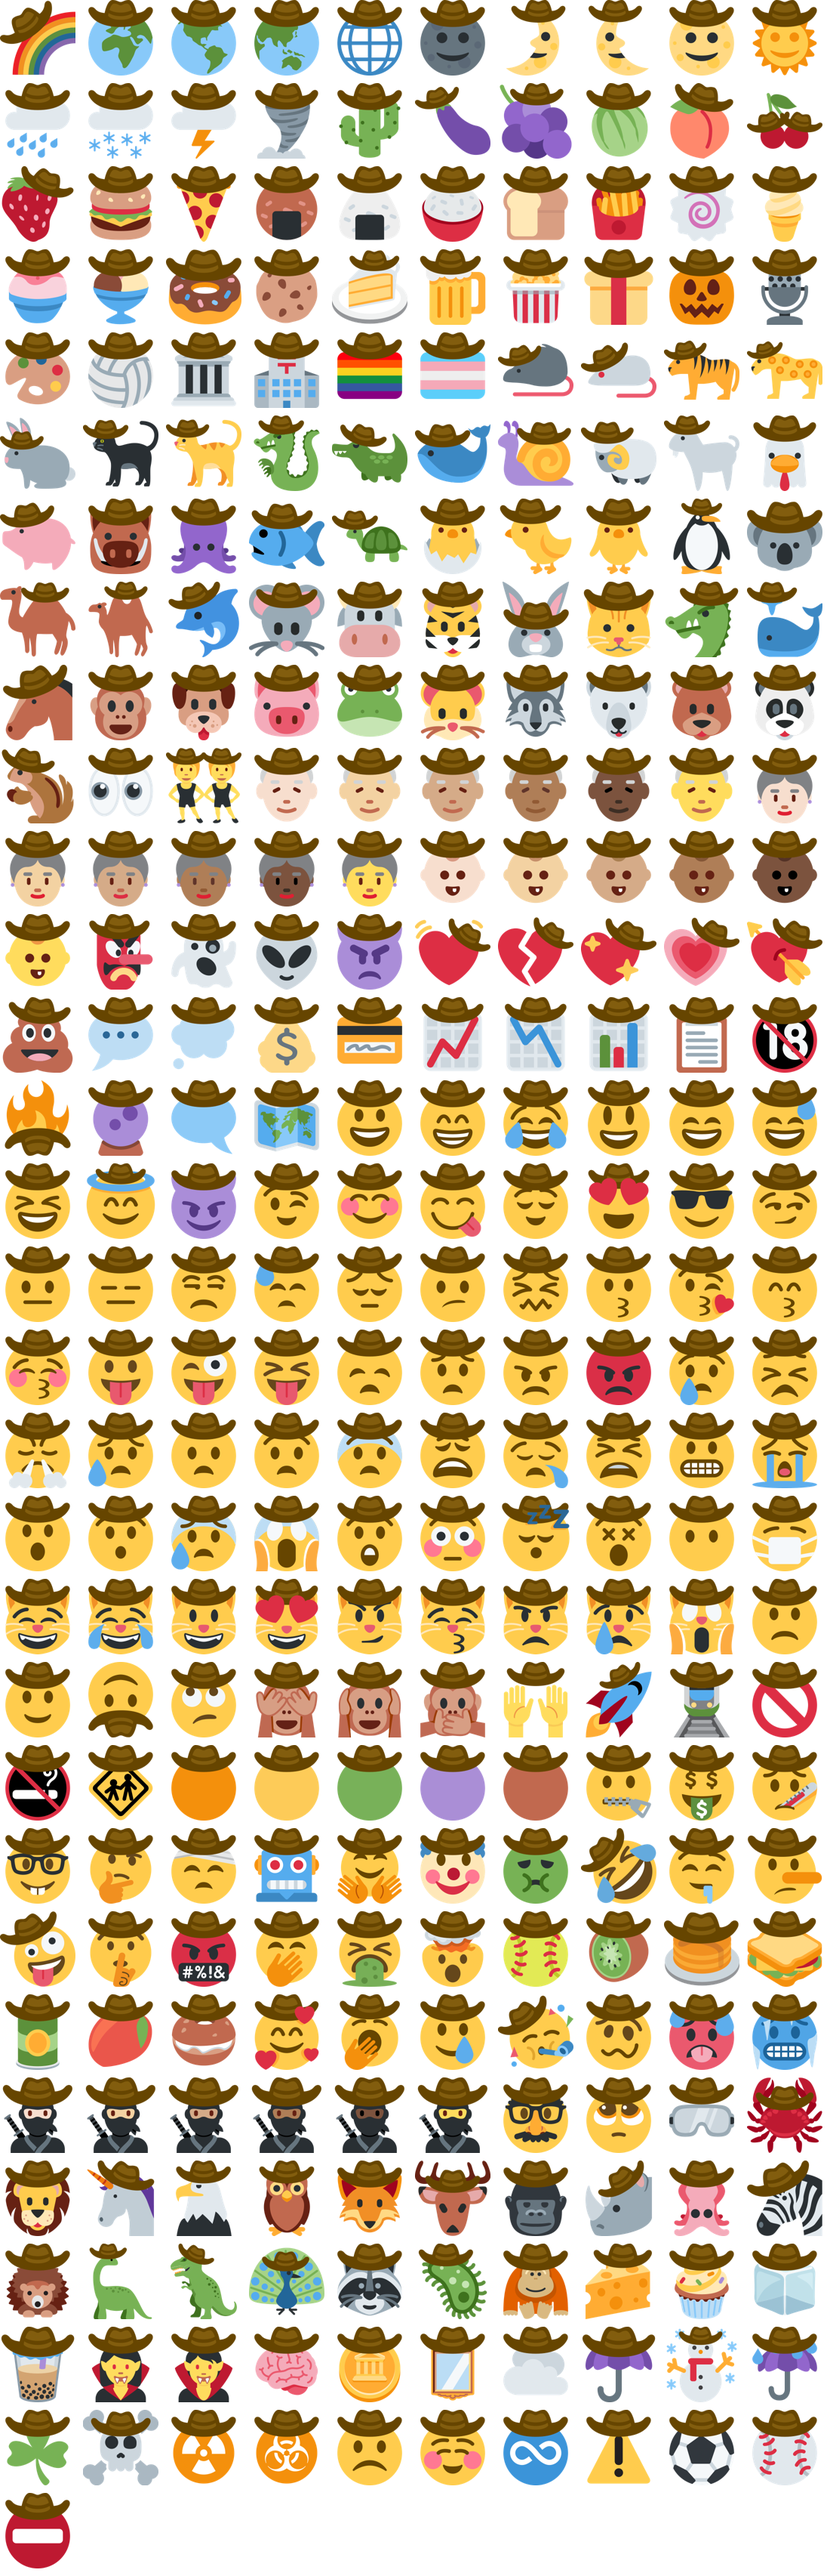
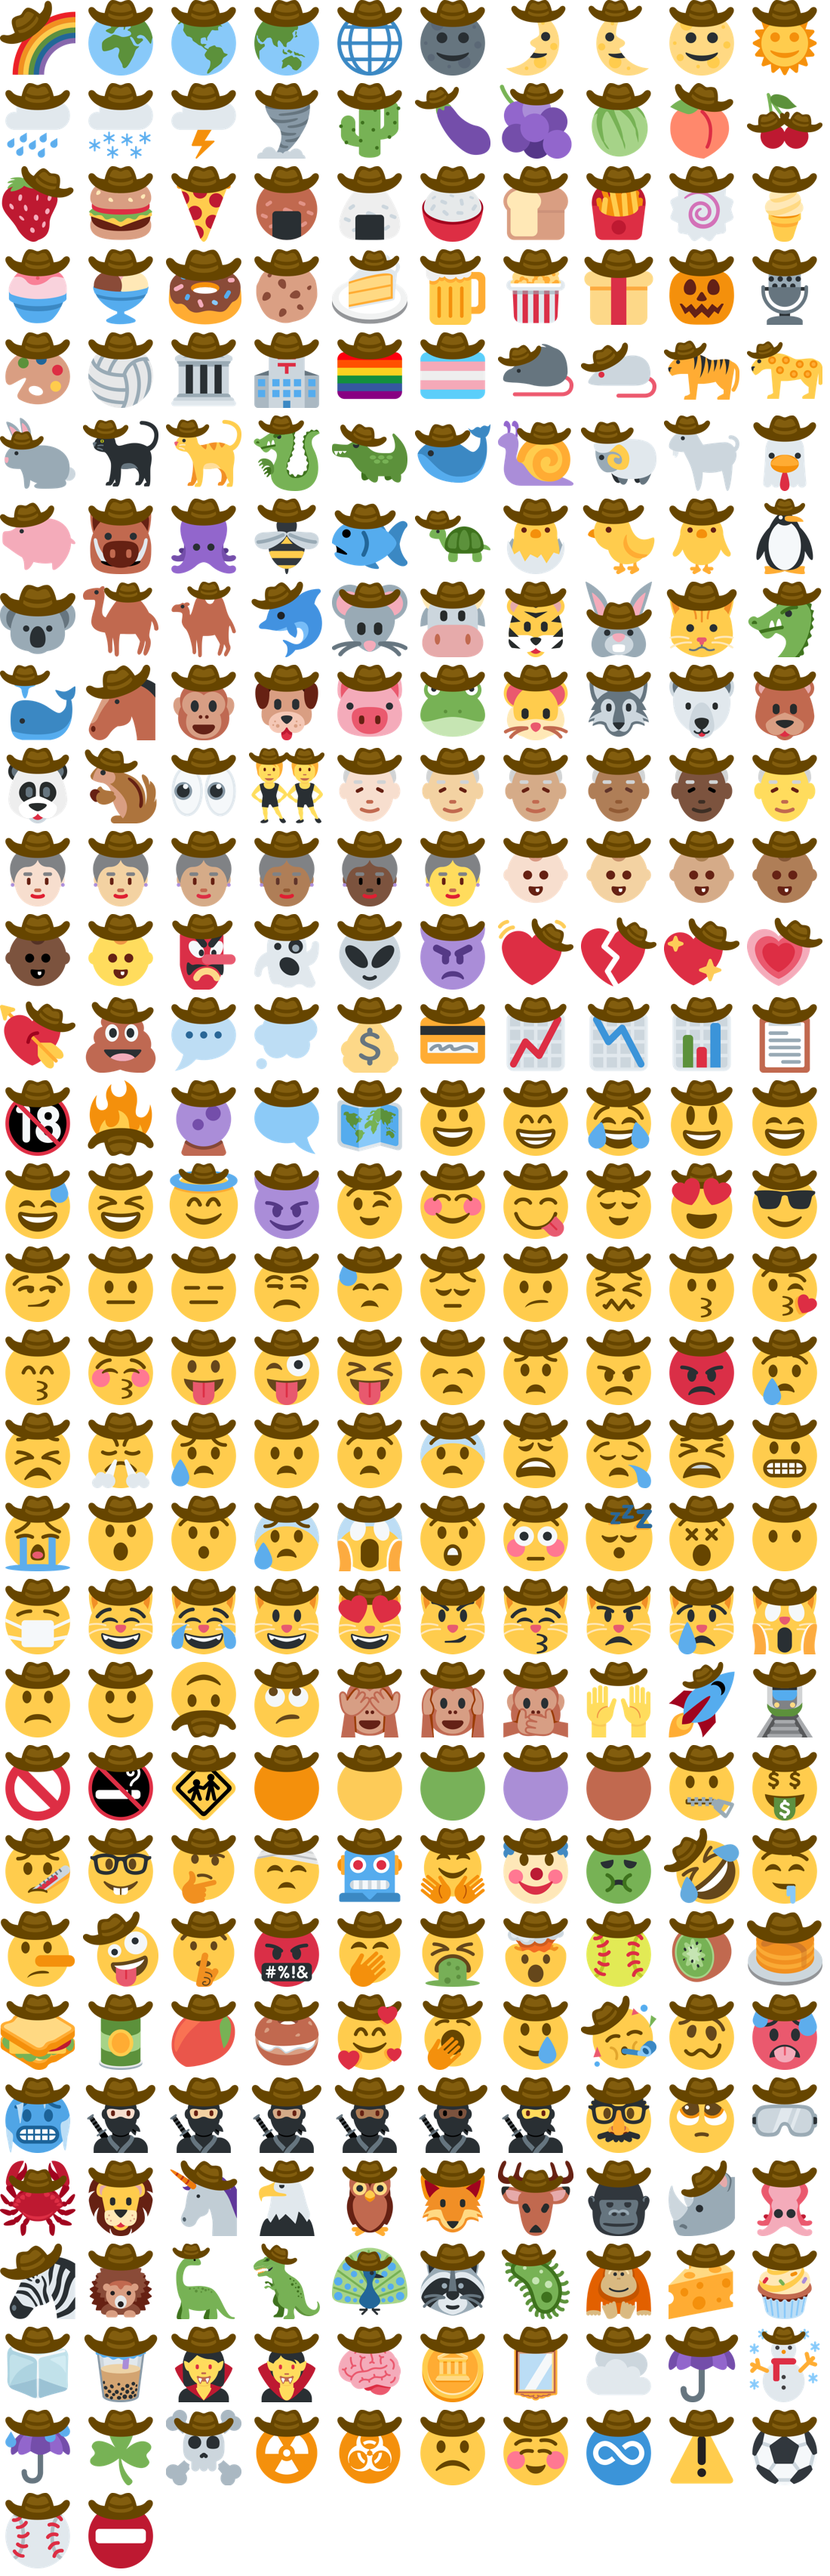
Added bee_cowboy. BEE HAW!

Changed region(s): [[0.0, 0.1865, 0.9891, 1.0]]

diff --git a/scripts/rename_cowboys.py b/scripts/rename_cowboys.py
@@ -331,7 +331,8 @@ def find_short_name(input):
         '26bd' : 'soccer_ball',
         '26be' : 'baseball',
         '26d4' : 'no_entry',
-        '1f46f' : 'people_partying'
+        '1f46f' : 'people_partying',
+        '1f41d' : 'bee'
     }
     if input in dict:
         return dict[input]
